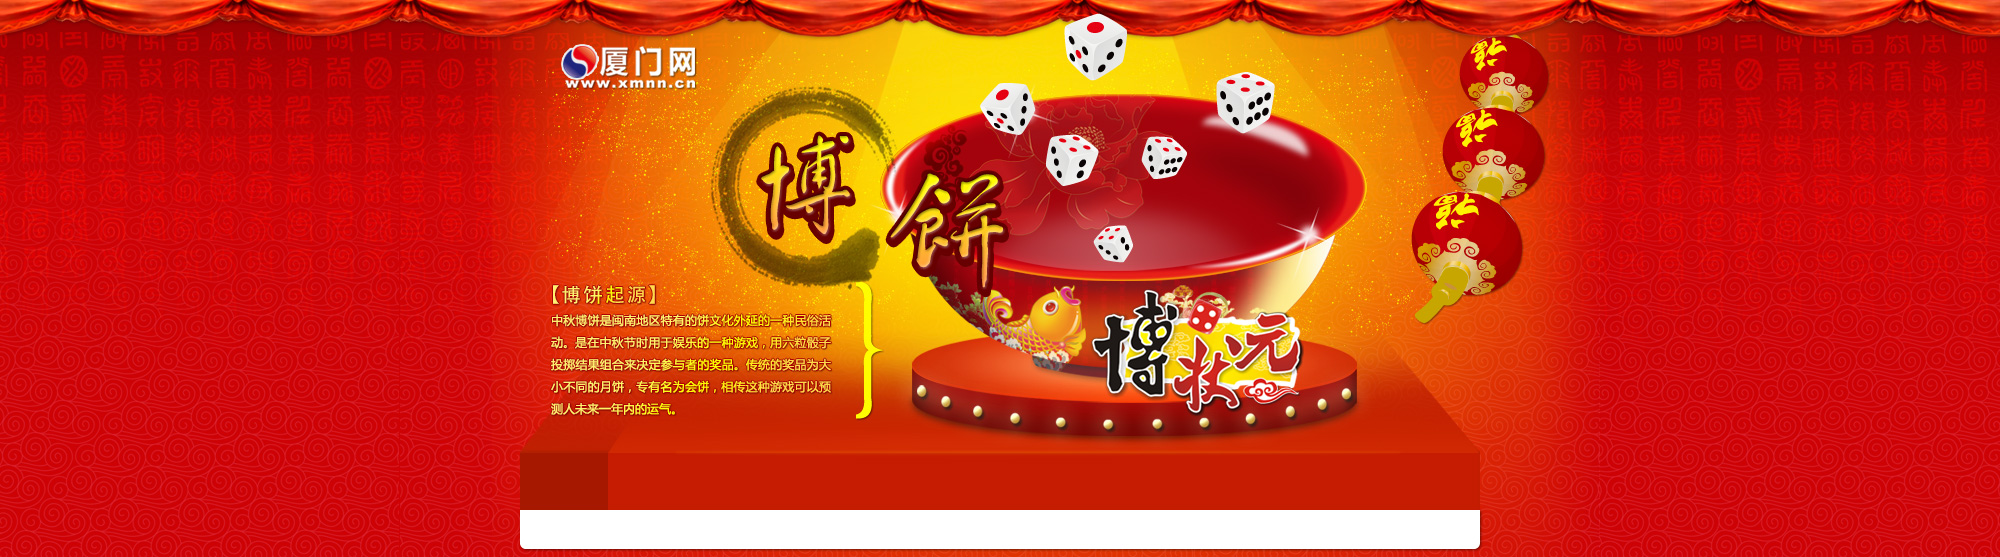
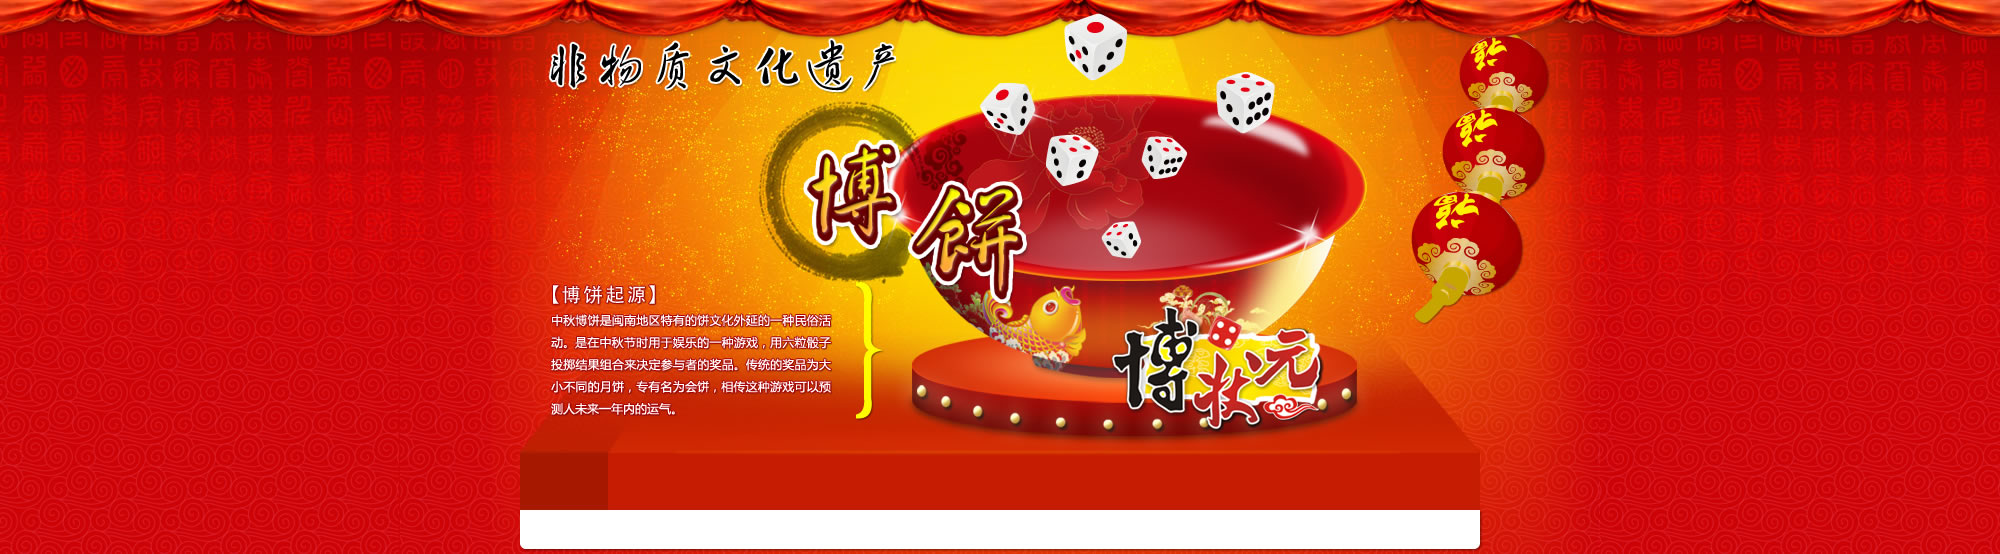
栏头和博饼页修改

diff --git a/css/style.css b/css/style.css
@@ -159,7 +159,7 @@ body{background:url(../img/body.jpg) no-repeat center 33px;}
 #b .r2 .c2{width:245px;}
 #b .r2{background:url(../img/r2.png) no-repeat; height:324px; padding:9px; margin-bottom:10px;}
 #b .r3{margin-bottom:3px;}
-#b .r3 .c1{ width:695px; padding-bottom:10px; background:#fff; border-radius:5px;}
+#b .r3 .c1{ width:695px; padding-bottom:14px; background:#fff; border-radius:5px;}
 #b .r3 .c2{ width:262px;}
 #b .r4 .c1{ width:695px;}
 #b .r4 .c2{ width:262px;}
@@ -242,7 +242,7 @@ body{background:url(../img/body.jpg) no-repeat center 33px;}
 .m8 .h li a{color:#D2370E; font-size:14px;}
 .m8 .hr{right:10px; top:0;}
 .m8 .hr a{margin:0 12px;}
-.m8 .b{height:650px; background:#d03600; border-radius:0 5px 5px 5px;}
+.m8 .b{height:592px; background:#d03600; border-radius:0 5px 5px 5px;}
 .m8 .b2 .br1{padding:253px 0 40px 275px; background:url(../img/m8-b2.png) no-repeat 256px 115px;}
 .m8 .b2 .br1 b{color:#C51C01; margin:0 5px;}
 .m8 .ba .br1{padding:16px 24px 0;}
@@ -260,7 +260,7 @@ body{background:url(../img/body.jpg) no-repeat center 33px;}
 .m9 h2{color:#CF3600;padding-left:13px; height:32px; line-height:32px;}
 .m9 .b{background:url(../img/m9-b.jpg) no-repeat; height:456px;}
 /*-------------------主办方m10--------------------------*/
-.m10{background:url(../img/m3.png) no-repeat; height:270px; padding:6px; margin-bottom:7px;}
+.m10{background:url(../img/m10.png) no-repeat; height:336px; padding:6px; margin-bottom:7px;}
 .m10 h2{height:40px; line-height:40px; padding-left:63px;}
 .m10 .b{padding:10px 18px 0;}
 .m10 .br1{margin-bottom:10px; text-align:center;}
